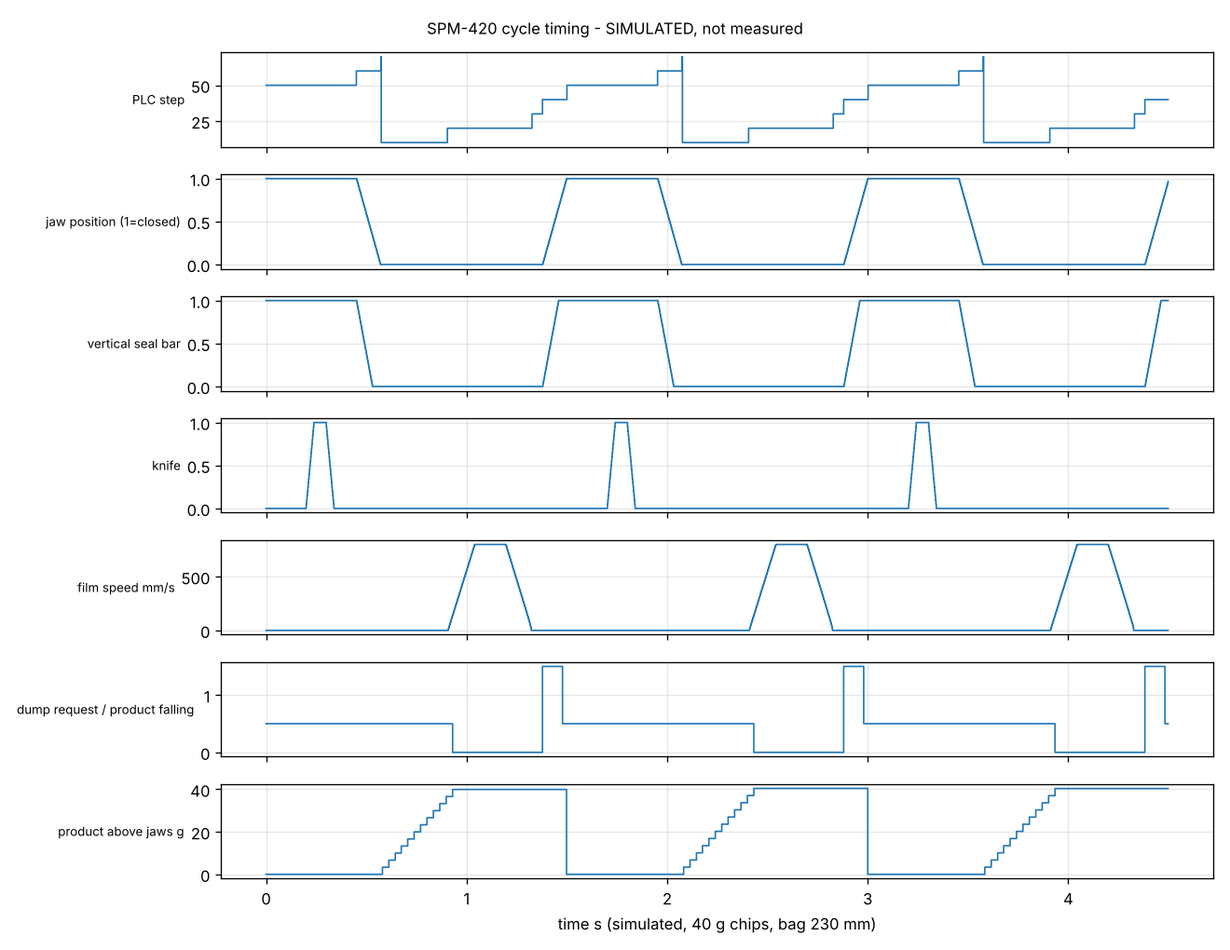
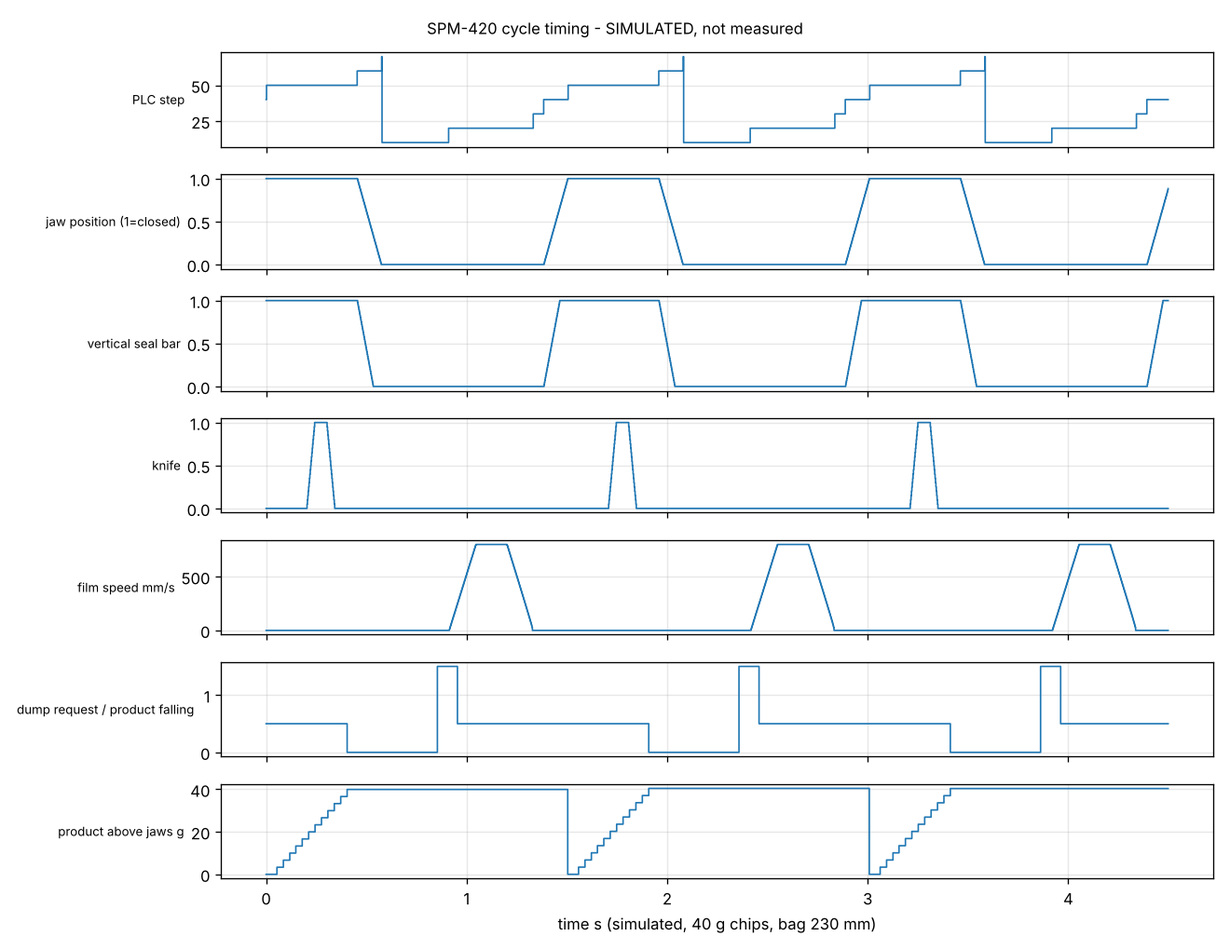
Send the weigher dump before the film pull so the charge lands on closed jaws
The dump request was issued when the jaws started to close. With a ~0.70 s
fall, the charge reached the jaw plane 8 ms after the jaws had reopened and
landed on a hot seal held only by the film.

FB_BagCycle now sends the dump request in step 10, Recipe.DumpLead_ms
(default 55 ms) before the film pull, and starts the pull at the pacing time
or DumpLead after a late dump. In the model the whole charge now lands on
the closed jaws (0.646-0.996 s, 52 ms margin each side) for any lead from
about 10 to 100 ms. Replaces DumpAdvance_ms in the UDT, HMI tags and
prototype.

Also fixes the reported speed: CycleTime_ms was taken at step 70, so the
PLC showed 51.3 bags/min at a real 40. It is now measured from pull start
to pull start.

Simulation: new checks for landing position and reported speed; 51/51 pass.
Docs updated: sequences, calibration C10, commissioning, test plan, report.

Claude-Session: https://claude.ai/code/session_01Hhh9uKDzXmJAP7xri2d8G6

diff --git a/AUTOMATION/HMI/hmi_prototype.html b/AUTOMATION/HMI/hmi_prototype.html
@@ -40,7 +40,7 @@ const ALARMS={1:['A','Emergency stop active','Release E-stop, press RESET, resta
 const USERS={operator:1,setter:2,maint:3,admin:9};
 const T={state:0,mode:0,step:0,speed:0,bagsTotal:128450,bagsBatch:0,bagsShift:0,empty:0,batchTarget:5000,temp:[25,25,25],out:[0,0,0],heaters:false,key:false,
  alarms:new Set(),hist:[],first:0,user:null,level:0,screen:'login',tab:'prod',run_s:0,stop_s:0,
- rcp:{name:'Potato chips 40 g',target:40,len:230,wid:160,reg:false,regWin:15,regOff:0,speed:40,vel:800,acc:6000,seal:450,t:[150,150,140],band:8,knife:200,dump:0,blast:0,n2:false,elev:50,take:60,coder:false},
+ rcp:{name:'Potato chips 40 g',target:40,len:230,wid:160,reg:false,regWin:15,regOff:0,speed:40,vel:800,acc:6000,seal:450,t:[150,150,140],band:8,knife:200,dump:55,blast:0,n2:false,elev:50,take:60,coder:false},
  io:{estop:true,guard:true,air:true,film:true,wgh:true,hopperLow:false}};
 const RCPS=['Potato chips 40 g','Extruded puffs 30 g','Crackers 100 g','Mini biscuits 150 g','Coated nuts 200 g'];
 let cyc=0;
@@ -88,7 +88,7 @@ const S={
   <div class="box"><span class="lamp ${T.io.estop?'g':'r'}"></span>E-stop chain <span class="lamp ${T.io.guard?'g':'r'}"></span>Guards <span class="lamp ${T.io.air?'g':'r'}"></span>Air <span class="lamp ${T.io.film?'g':'r'}"></span>Film <span class="lamp ${T.io.wgh?'g':'a'}"></span>Weigher ready</div>`},
  prod:()=>settings(`<div class="cols c2"><div class="box"><h4>Production settings</h4>${field('Speed','rcp.speed',5,60,'bags/min',1)}${field('Knife delay','rcp.knife',0,1500,'ms',2)}${field('Air blast','rcp.blast',0,400,'ms',2)}${toggle('Nitrogen flush','rcp.n2',2)}${toggle('Date coder','rcp.coder',2)}</div>
   <div class="box"><h4>Setup functions (SETUP mode)</h4><button ${T.mode===2&&T.level>=2?'':'disabled'}>Single cycle</button> <button ${T.mode===2&&T.level>=2?'':'disabled'}>Empty bag</button> <button ${T.mode===2&&T.level>=2?'':'disabled'}>Film jog ▶</button><p><small>Available to Setter in SETUP mode with guards closed.</small></p></div></div>`),
- weight:()=>settings(`<div class="cols c2"><div class="box"><h4>Weight settings</h4>${field('Target weight','rcp.target',10,1000,'g',2,0.5)}${field('Dump advance','rcp.dump',0,800,'ms',2)}<p><small>The target is entered at the weigher panel unless the weigher data link option is fitted. Tolerances and reject limits are set at the weigher / checkweigher.</small></p></div>
+ weight:()=>settings(`<div class="cols c2"><div class="box"><h4>Weight settings</h4>${field('Target weight','rcp.target',10,1000,'g',2,0.5)}${field('Dump lead (before film pull)','rcp.dump',0,800,'ms',2)}<p><small>Dump lead: the weigher is told to dump this long before the film pull, so the charge lands while the jaws are closed. Set it from high-speed video (calibration C10).</small></p><p><small>The target is entered at the weigher panel unless the weigher data link option is fitted. Tolerances and reject limits are set at the weigher / checkweigher.</small></p></div>
   <div class="box"><h4>Weigher</h4><span class="lamp ${T.io.wgh?'g':'a'}"></span>${T.io.wgh?'Combination ready':'Waiting for product'}<p><small>Bag weights are not measured by the bagger. Fit a checkweigher for per-bag weight records.</small></p></div></div>`),
  temp:()=>settings(`<div class="cols c2"><div class="box"><h4>Temperature settings</h4>${field('Front jaw','rcp.t.0',60,210,'°C',2)}${field('Rear jaw','rcp.t.1',60,210,'°C',2)}${field('Vertical bar','rcp.t.2',60,210,'°C',2)}${field('Seal time','rcp.seal',150,2000,'ms',2)}${toggle('Heaters','heaters',1)}</div>
   <div class="box"><h4>Actual</h4><table><tr><th>Zone</th><th>°C</th><th>Output</th><th>Band</th></tr>${[0,1,2].map(i=>`<tr><td>Z${i+1}</td><td>${f1(T.temp[i])}</td><td>${T.out[i].toFixed(0)} %</td><td><span class="lamp ${Math.abs(T.temp[i]-T.rcp.t[i])<=T.rcp.band?'g':'a'}"></span></td></tr>`).join('')}</table><small>Hard limit 220 °C in PLC; independent cut-out 250 °C.</small></div></div>`),

diff --git a/SIMULATION/plc_model.py b/SIMULATION/plc_model.py
@@ -19,7 +19,7 @@ class Recipe:
     TempBand: float = 8.0
     KnifeDelay_ms: int = 200
     KnifeTime_ms: int = 100
-    DumpAdvance_ms: int = 0
+    DumpLead_ms: int = 55
     SettleTime_ms: int = 50
     SpeedSet_bpm: float = 40.0
     UseRegMark: bool = False
@@ -79,14 +79,16 @@ class BagCycle:
         self.qJawClose = self.qVSeal = self.qKnife = self.qDumpRequest = self.qPullExecute = False
         self.Waiting = self.BagDone = self.EmptyDone = False
         self.ToJawClose = self.ToJawOpen = self.ToVSeal = self.ToKnife = self.BagJam = False
-        self.charged = self.dumpPending = self.bagExpected = self.singleLatch = False
+        self.charged = self.dumpIssued = self.bagExpected = self.singleLatch = False
         self.missedBags = 0; self.CycleTime_ms = 0
-        self.dumpTimer = TON(); self.dumpPulseT = 0.0; self.dumpOld = False
+        self.dumpCmd = False; self.dumpAt = 0.0; self.dumpPulseT = 0.0
 
     def __call__(self, dt, r: Recipe, Run, SingleCycle, NoProduct, Abort, CycleStop, Reset, TempsInBand,
                  FilmPresent, AirOk, WeigherReady, JawClosed, JawOpen, VSealBack, KnifeHome, PullDone,
                  PullError, BagOutEdge):
         self.BagDone = self.EmptyDone = False
+        self.dumpCmd = False
+        period = 60.0 / max(r.SpeedSet_bpm, 1.0)
         self.ToJawClose = self.ToJawOpen = self.ToVSeal = self.ToKnife = self.BagJam = False
         if SingleCycle:
             self.singleLatch = True
@@ -101,13 +103,23 @@ class BagCycle:
             if (Run or self.singleLatch) and not CycleStop:
                 self.Step = 10
         elif s == 10:
-            self.Waiting = not (TempsInBand and (WeigherReady or NoProduct or not Run))
-            if CycleStop or not (Run or self.singleLatch):
+            ready = TempsInBand and FilmPresent and AirOk and JawOpen and VSealBack and KnifeHome
+            want = ((Run and not CycleStop) or self.singleLatch) and not NoProduct
+            if self.dumpIssued:
+                self.Waiting = False
+                if self.tCycle >= max(period, self.dumpAt + r.DumpLead_ms / 1000) - 1e-9:
+                    self.Step = 20
+            elif CycleStop or not (Run or self.singleLatch):
+                self.Waiting = False
                 self.Step = 20 if (self.charged and TempsInBand and FilmPresent and AirOk) else 0
-            elif (TempsInBand and FilmPresent and AirOk and JawOpen and VSealBack and KnifeHome
-                  and (WeigherReady or NoProduct)
-                  and (self.tCycle >= 60.0 / r.SpeedSet_bpm - 1e-9 or self.singleLatch)):
-                self.Step = 20
+            elif want:
+                self.Waiting = not (TempsInBand and WeigherReady)
+                if ready and WeigherReady and (self.tCycle + r.DumpLead_ms / 1000 >= period - 1e-9 or self.singleLatch):
+                    self.dumpIssued = True; self.dumpCmd = True; self.dumpAt = self.tCycle
+            else:
+                self.Waiting = not TempsInBand
+                if ready and (self.tCycle >= period - 1e-9 or self.singleLatch):
+                    self.Step = 20
         elif s == 20:
             self.Waiting = False; self.qPullExecute = True
             if PullError:
@@ -116,8 +128,6 @@ class BagCycle:
                 self.qPullExecute = False; self.Step = 30
         elif s == 30:
             if et >= r.SettleTime_ms / 1000:
-                self.dumpPending = ((Run and not CycleStop and not NoProduct and WeigherReady)
-                                    or (self.singleLatch and not NoProduct and WeigherReady))
                 self.Step = 40
         elif s == 40:
             self.qJawClose = True; self.qVSeal = True
@@ -143,25 +153,24 @@ class BagCycle:
                 self.missedBags += 1
             self.bagExpected = True
             self.BagJam = self.missedBags >= 2
-            self.charged = self.dumpPending; self.dumpPending = False
-            self.CycleTime_ms = int(self.tCycle * 1000)
+            self.charged = self.dumpIssued; self.dumpIssued = False
             self.singleLatch = False
             self.Step = 900 if self.BagJam else 10
         elif s == 900:
             self.qJawClose = self.qVSeal = self.qKnife = self.qPullExecute = False
-            self.dumpPending = self.singleLatch = self.Waiting = False
+            self.dumpIssued = self.singleLatch = self.Waiting = False
             if Reset and not Abort:
                 self.missedBags = 0; self.bagExpected = False; self.charged = False
                 self.Step = 0
-        # dump pulse (TP 100 ms) DumpAdvance after the jaw-close command
-        q = self.dumpTimer(self.Step in (40, 50), r.DumpAdvance_ms / 1000, dt) and self.dumpPending
-        if q and not self.dumpOld:
+        # dump pulse (TP 100 ms) from the one-scan command; lead timer request -> pull
+        if self.dumpCmd:
             self.dumpPulseT = 0.1
-        self.dumpOld = q
         self.qDumpRequest = self.dumpPulseT > 0
         self.dumpPulseT = max(0.0, self.dumpPulseT - dt)
         # timers
         self.tStep = self.tStep + dt if self.Step == self.stepOld else 0.0
+        if self.Step == 20 and self.stepOld != 20:
+            self.CycleTime_ms = int(round(self.tCycle * 1000))       # pull start to pull start
         self.tCycle = 0.0 if (self.Step == 20 and self.stepOld != 20) else self.tCycle + dt
         self.stepOld = self.Step
 

diff --git a/SIMULATION/scenarios.py b/SIMULATION/scenarios.py
@@ -63,12 +63,16 @@ def s01_normal(seconds=120):
     L = [b["length"] for b in p.bags[2:]]
     res = dict(sim_seconds=seconds, bags_plc=g.plc.bags, bags_plant_filled=len(bags), empty_plc=g.plc.empties,
                mean_period_s=round(statistics.fmean(per), 3), speed_bpm=round(60 / statistics.fmean(per), 1),
+               plc_reported_speed_bpm=round(g.plc.speed, 1),
                weights=wstats(bags, 40.0), bag_length_mm=[round(min(L), 1), round(max(L), 1)],
-               product_in_seal_events=p.in_seal, alarms=g.active(), state=g.plc.mode.State)
+               product_in_seal_events=p.in_seal, pieces_landed_jaws_closed=p.land_closed,
+               pieces_landed_jaws_open=p.land_open, alarms=g.active(), state=g.plc.mode.State)
     checks = [("PLC bag count equals filled bags in plant (+/-1 in flight)", abs(g.plc.bags - len(bags)) <= 1),
               ("no product caught in the seal", p.in_seal == 0),
+              ("every piece lands while the jaws are closed and support the new seal", p.land_open == 0 and p.land_closed > 0),
               ("all filled bags within +/-10 % of target", res["weights"]["within_10pct"] == 100.0),
               ("speed is paced to the 40 bags/min recipe value (+/-0.5)", abs(res["speed_bpm"] - 40.0) <= 0.5),
+              ("speed reported by the PLC matches the real speed (+/-0.5)", abs(res["plc_reported_speed_bpm"] - res["speed_bpm"]) <= 0.5),
               ("bag length 230 +/-1 mm", abs(min(L) - 230) <= 1 and abs(max(L) - 230) <= 1),
               ("no alarm (warnings 21/26/32 allowed)", all(a in (21, 26, 32) for a in g.active())),
               ("exactly one empty leader bag", g.plc.empties == 1)]

diff --git a/SIMULATION/plant_model.py b/SIMULATION/plant_model.py
@@ -41,6 +41,7 @@ class Plant:
         self.string = 0.35
         self.packets = []                       # (arrival time, grams)
         self.acc = 0.0; self.bags = []; self.in_seal = 0
+        self.land_closed = 0; self.land_open = 0; self.land_rel = []   # where each piece landed (jaws closed / not)
         self.jaw_was_closed = False; self.cut_done = False
         self.bag_out_until = -1.0; self.bag_jam = False
         self.dump_old = False; self.t = 0.0; self.conveyor_ok = True; self.estop_drop = False
@@ -96,6 +97,9 @@ class Plant:
         for ta, g in self.packets:
             if ta <= t:
                 if 0.05 < self.jaw.x < 0.999: self.in_seal += 1
+                if self.jaw.out: self.land_closed += 1
+                else: self.land_open += 1
+                self.land_rel.append(ta)
                 self.acc += g
             else: rest.append((ta, g))
         self.packets = rest

diff --git a/AUTOMATION/SEQUENCES/sequences.md b/AUTOMATION/SEQUENCES/sequences.md
@@ -1,6 +1,6 @@
 # Control sequences, state machines and timing
 
-Implemented in `AUTOMATION/PLC/*.scl`; exercised by `SIMULATION/` (49 checks, all passing in the model).
+Implemented in `AUTOMATION/PLC/*.scl`; exercised by `SIMULATION/` (51 checks, all passing in the model).
 
 ## 1. Operating modes
 
@@ -42,16 +42,16 @@ stateDiagram-v2
 stateDiagram-v2
   [*] --> S0
   S0: 0 IDLE
-  S10: 10 WAIT CONDITIONS
+  S10: 10 WAIT CONDITIONS (weigher dump request, DumpLead before the pull)
   S20: 20 PULL FILM
   S30: 30 SETTLE
-  S40: 40 CLOSE JAWS + vertical bar (weigher dump request)
+  S40: 40 CLOSE JAWS + vertical bar
   S50: 50 SEAL DWELL (knife fires)
   S60: 60 OPEN JAWS
   S70: 70 CYCLE END (count, jam check)
   S900: 900 ABORT (all actuators off)
   S0 --> S10: Run or single cycle
-  S10 --> S20: temps in band, film, air, jaws open, weigher READY, pacing time elapsed
+  S10 --> S20: dump sent, DumpLead elapsed (dump sent at pacing time minus DumpLead, when ready and weigher READY)
   S10 --> S20: stop requested and a charged bag is open (closing cycle)
   S10 --> S0: stop requested, nothing to close
   S20 --> S30: pull done
@@ -67,7 +67,7 @@ stateDiagram-v2
   S900 --> S0: RESET with no abort cause
 ```
 
-Product tracking: the charge requested in step 40 of cycle *n* lands in the bag whose bottom seal is being made in that step and leaves the machine in cycle *n+1*. Hence one empty leader bag after each start and one closing cycle at each stop (both verified in simulation S01/S03/S04).
+Product tracking: the charge requested in step 10 just before cycle *n* falls during the film pull, lands on the bottom seal made in steps 40-50 of cycle *n* while the jaws hold it, and leaves the machine in cycle *n+1*. Hence one empty leader bag after each start and one closing cycle at each stop (both verified in simulation S01/S03/S04).
 
 ## 4. Timing diagram
 
@@ -75,19 +75,25 @@ Simulated, reference recipe (230 mm bag, 40 bags/min): `timing_diagram_simulated
 
 ![timing](timing_diagram_simulated.png)
 
-| Phase | Start s | Duration s | Actuator | Confirmed by |
-|---|---|---|---|---|
-| Film pull | 0.00 | 0.42 | servo, trapezoid 6 m/s², 0.8 m/s | axis done |
-| Settle | 0.42 | 0.05 | - | timer |
-| Jaws + vertical bar close | 0.47 | ~0.12-0.15 | Y1, Y2 | B5 |
-| Weigher dump request | 0.47 + dump advance | 0.10 pulse | relay to weigher | dump-done pulse |
-| Seal dwell | ~0.60 | 0.45 | heat + pressure | timer |
-| Knife | dwell + 0.20 | 0.10 | Y3 | B8 on return |
-| Jaws open | ~1.05 | ~0.12-0.15 | spring-return valves | B6, B7, B8 |
-| Product falling (1.9 m) | from dump | lead ~0.70, tail ~1.05 after dump | gravity | must end before the next jaw close |
-| Pacing wait | ~1.20 | to 1.50 | - | cycle timer |
+Times from the simulation trace, measured from the start of the film pull. The simulated cycle is 1.504 s against the 1.500 s recipe value (40 bags/min): the 2 ms scan of the model rounds the pacing and the 55 ms lead, at most one scan each.
 
-Synchronisation rule: `dump advance + fall of the tail < cycle time - jaw close time`. At 40 bags/min: 0 + 1.05 < 1.50 - 0.15. The recipe value "dump advance" exists so that light, slow products can be given more of the cycle; the fall times must be measured per product (high-speed video) during commissioning.
+| Phase | Start s | End s | Actuator | Confirmed by |
+|---|---|---|---|---|
+| Weigher dump request | -0.056 (DumpLead before the pull, in step 10) | +0.044 | 100 ms pulse, relay to weigher | dump-done pulse |
+| Film pull | 0.000 | 0.422 | servo, trapezoid 6 m/s², 0.8 m/s | axis done |
+| Settle | 0.422 | 0.474 | - | timer |
+| Jaws + vertical bar close | 0.474 | 0.594 | Y1, Y2 | B5 |
+| Seal dwell | 0.596 | 1.048 | heat + pressure | timer |
+| Knife | 0.798 | 0.898 | Y3 | B8 on return |
+| **Charge lands on the closed jaws** | **0.646** | **0.996** | gravity: 0.70 s fall + 0.35 s string | 52 ms after jaws closed, 52 ms before they start to open |
+| Jaws open | 1.048 | 1.168 | spring-return valves | B6, B7, B8 |
+| Pacing wait | 1.172 | 1.504 | - | cycle timer |
+
+Synchronisation rule: the whole charge must land while the jaws are closed, so they carry it while the new bottom seal sets:
+
+`t_closed  <  -DumpLead + t_fall          and          -DumpLead + t_fall + t_string  <  t_open`
+
+with t_closed = 0.594 s and t_open = 1.048 s (both measured from the pull start, fixed by the recipe), t_fall ≈ 0.70 s and t_string ≈ 0.35 s (assumed, product-dependent). In the model this holds for DumpLead between about 10 and 100 ms; 55 ms centres the charge in the dwell. The window only exists while t_string is shorter than the dwell minus margins (0.45 s here): a product with a longer string needs a longer dwell or a lower speed. The pull starts at the pacing time, or DumpLead after the request if the weigher was late, so a late weigher shifts the whole cycle but not this relation. t_fall and t_string must be measured per product with high-speed video (calibration C10).
 
 ## 5. Named sequences
 
@@ -95,7 +101,7 @@ Synchronisation rule: `dump advance + fall of the tail < cycle time - jaw close 
 
 **Product feeding:** weigher "feed request" starts elevator + vibratory tray; they stop when the request drops or on a weigher fault; hopper-low gives a warning only.
 
-**Weighing:** autonomous in the weigher. Bagger sees READY, issues DUMP REQUEST, receives DUMP DONE. No READY for 10 s -> warning 21, amber lamp, machine waits without pulling film.
+**Weighing:** autonomous in the weigher. Bagger sees READY, issues DUMP REQUEST in step 10 (DumpLead before the pull), receives DUMP DONE. Once the request is sent the film pull always follows, because the product is already falling. No READY for 10 s -> warning 21, amber lamp, machine waits without pulling film.
 
 **Packaging / sealing / cutting / discharge:** steps 20-70 above. Bag passing photo-eye B11 resets the jam counter.
 

diff --git a/DOCUMENTATION/REPORTS/final_engineering_report.md b/DOCUMENTATION/REPORTS/final_engineering_report.md
@@ -18,7 +18,7 @@ Revision P1, 2026-11-11. Status of the project: **design package at preliminary-
 | 10 | PLC program | `AUTOMATION/PLC/*.scl, *.udt, *.db` | Structured Text source, **not compiled in TIA Portal** |
 | 11 | HMI application | `AUTOMATION/HMI/` specification, tag CSV, browser prototype | WinCC project must be built from the spec |
 | 12 | Monitoring software | `SOFTWARE/` FastAPI + PostgreSQL schema + React | runs; tested with simulated source; OPC UA path untested on a PLC |
-| 13 | Simulation | `SIMULATION/` | 12 scenarios / 49 checks pass; weigher Monte-Carlo |
+| 13 | Simulation | `SIMULATION/` | 12 scenarios / 51 checks pass; weigher Monte-Carlo |
 | 14 | Manufacturing guide | `DOCUMENTATION/MANUFACTURING/manufacturing_guide.md` | process, tolerances, tools |
 | 15 | Assembly instructions | `DOCUMENTATION/MANUFACTURING/assembly_instructions.md` | sequence, threading, format change |
 | 16 | Safety documentation | `DOCUMENTATION/SAFETY/` | preliminary risk assessment, standards list, LOTO, cleaning |
@@ -43,7 +43,7 @@ Line: floor hopper with vibratory tray -> Z-bucket elevator -> 10-head combinati
 2. **The bagger cannot detect weight errors** (simulation S05). Weight assurance rests on the weigher and, for anything sold by weight, on a checkweigher.
 3. **Speed is capped by pneumatic jaws** at about 49 bags/min for this bag; the 80-150 bags/min of the reference manufacturer's high-speed model requires servo jaws and continuous film motion.
 4. **Combination weighing needs charge variety**: the model shows more failed combinations when per-head charges are very uniform, and a 4-head weigher is unusable for 40 g chips (4.7 % give-away, ~70 % skipped cycles).
-5. **Simulation found three real sequence defects** before any hardware: a hang in STOPPING after a cycle abort, alarms needing two resets, and the recipe speed not being enforced. All fixed in both the SCL and the model.
+5. **Simulation found five real sequence defects** before any hardware: a hang in STOPPING after a cycle abort, alarms needing two resets, the recipe speed not being enforced, the weigher dump being sent so late that the charge landed after the jaws had opened, and a wrong speed figure reported by the PLC. All fixed in both the SCL and the model. The dump timing now has a tuning window of only about ±45 ms around 55 ms (model values); it must be set from high-speed video per product.
 6. **Cabinet temperature margin is thin** for unconditioned halls in Iraq (≈ 45 °C inside at 35 °C ambient): a filter fan or cooler is specified.
 7. Film is ~98 % of the energy-plus-film running cost; bag length matters more than any energy measure.
 
@@ -56,7 +56,7 @@ Line: floor hopper with vibratory tray -> Z-bucket elevator -> 10-head combinati
 | A3 | Bulk densities of products | bag sizes, elevator | measure each product |
 | A4 | Film: 50 µm PP-based laminate, seal 150 °C / 0.45 s / 0.4 MPa | cycle, heaters, jaw force | film supplier data sheet + seal trials (T-SEAL-01) |
 | A5 | Film drag 60 N, belt friction allows 6 m/s² | servo sizing, cycle | spring-scale measurement; pull trials |
-| A6 | Product string duration 0.35 s, fall without drag | timing | high-speed video per product |
+| A6 | Product string duration 0.35 s, fall without drag | timing, dump lead (55 ms) | high-speed video per product |
 | A7 | Per-head charge CV 30 %, cell noise 0.15 g | weight statistics | weigher supplier trials with the real product |
 | A8 | Weigher 1100 dia x 1250, 380 kg, 1.5 kW, 70 wpm; elevator section and head height | layout, loads, footprint | supplier certified drawings and data |
 | A9 | Pneumatic travel 0.12-0.15 s, knife force 150 N | cycle | measurement |

diff --git a/DOCUMENTATION/TESTING/test_plan.md b/DOCUMENTATION/TESTING/test_plan.md
@@ -4,7 +4,7 @@
 
 | Evidence | Tool | Result | What it does NOT show |
 |---|---|---|---|
-| Sequence logic vs plant model, 12 scenarios, 49 checks | `SIMULATION/run_simulation.py`, `pytest SIMULATION` | all pass (`SIMULATION/RESULTS.md`) | correctness of the SCL text, real actuator times, real thermal behaviour, film behaviour |
+| Sequence logic vs plant model, 12 scenarios, 51 checks | `SIMULATION/run_simulation.py`, `pytest SIMULATION` | all pass (`SIMULATION/RESULTS.md`) | correctness of the SCL text, real actuator times, real thermal behaviour, film behaviour |
 | Combination weighing statistics | `SIMULATION/weigher_sim.py` | `weigher_results.json` | real charge distribution, real load-cell dynamics |
 | Combination algorithm (C) | gcc host test, 20 000 random cases vs brute force | pass | behaviour on a microcontroller |
 | Monitoring backend | 8 pytest API tests (SQLite) + live smoke test with simulated source | pass | PostgreSQL in production, OPC UA against a real CPU |
@@ -12,7 +12,7 @@
 | HMI prototype | browser run through login, all screens, start, E-stop, reset | pass | the real WinCC project |
 | CAD | model regenerates, bounding box equals calculated envelope 4450 x 1900 x 3900 | pass | interference check at detail level, manufacturability |
 
-Three sequence defects were found and fixed through simulation before any hardware existed (STOPPING could hang after a cycle abort; alarms needed two RESET presses; recipe speed was not enforced). This is the purpose of the model; it is not proof that no defects remain.
+Five sequence defects were found and fixed through simulation before any hardware existed: STOPPING could hang after a cycle abort; alarms needed two RESET presses; recipe speed was not enforced; the weigher dump was sent too late, so the charge landed after the jaws had opened, on an unsupported hot seal; and the speed reported by the PLC was measured over part of the cycle (51.3 shown at a real 40 bags/min). This is the purpose of the model; it is not proof that no defects remain.
 
 ## 2. Simulation coverage requested by the brief
 

diff --git a/AUTOMATION/HMI/HMI_SPECIFICATION.md b/AUTOMATION/HMI/HMI_SPECIFICATION.md
@@ -43,7 +43,7 @@ Auto-logoff after 10 min. Passwords are managed in the panel's user administrati
 | 3 | Machine overview | synoptic: hopper, elevator, weigher, former, belts, jaws, take-off; each element coloured by state; live step text ("50 SEAL DWELL"); sensor lamps | Cycle_Step, DI/DQ bytes |
 | 4 | Production settings | speed, knife delay, air blast, N2 flush, coder on/off; SETUP functions: single cycle, empty bag | Rcp_Speed, Rcp_KnifeDelay, Cmd_SingleCycle, Cmd_EmptyBag |
 | 5 | Product configuration | recipe list (20), load / save / copy, name, bag length, bag width (shows required forming set and tube OD), registration mark on/off, window, offset | Rcp_* |
-| 6 | Weight settings | target weight (information + value to be keyed at the weigher; sent automatically only if the weigher option "Modbus TCP" is fitted), dump advance; link text to weigher panel; latest checkweigher statistics if fitted | Rcp_TargetWeight, Rcp_DumpAdvance |
+| 6 | Weight settings | target weight (information + value to be keyed at the weigher; sent automatically only if the weigher option "Modbus TCP" is fitted), dump lead (weigher dump request before the film pull, 0-800 ms); link text to weigher panel; latest checkweigher statistics if fitted | Rcp_TargetWeight, Rcp_DumpLead |
 | 7 | Temperature settings | 3 zones: setpoint, actual, output %, in-band lamp, trend 30 min; heaters ON/OFF; seal time | Rcp_Temp_Zx, Temp_Zx_Act/Out, Heaters_On, Rcp_SealTime |
 | 8 | Motor speed settings | film pull velocity and acceleration, elevator %, take-off %, calculated cycle time and theoretical bags/min for the entered values | Rcp_PullVel, Rcp_PullAcc, Rcp_ElevSpeed, Rcp_TakeoffSpeed |
 | 9 | Production counter | total (not resettable), batch, shift, empty cycles, batch target, run/stop time, efficiency % | Bags_*, Batch_Target |

diff --git a/SIMULATION/RESULTS.md b/SIMULATION/RESULTS.md
@@ -3,7 +3,7 @@
 > Generated by `run_simulation.py`. **These are results of a software model** (Python port of the PLC sequence + assumed plant physics). They show that the sequence design behaves as intended against the assumptions; they are not measurements and do not validate machine performance.
 
 
-**49 of 49 checks passed.**
+**51 of 51 checks passed.**
 
 
 ## S01 normal automatic production
@@ -12,8 +12,10 @@
 |---|---|
 | PLC bag count equals filled bags in plant (+/-1 in flight) | PASS |
 | no product caught in the seal | PASS |
+| every piece lands while the jaws are closed and support the new seal | PASS |
 | all filled bags within +/-10 % of target | PASS |
 | speed is paced to the 40 bags/min recipe value (+/-0.5) | PASS |
+| speed reported by the PLC matches the real speed (+/-0.5) | PASS |
 | bag length 230 +/-1 mm | PASS |
 | no alarm (warnings 21/26/32 allowed) | PASS |
 | exactly one empty leader bag | PASS |
@@ -24,8 +26,9 @@
  "bags_plc": 78,
  "bags_plant_filled": 78,
  "empty_plc": 1,
- "mean_period_s": 1.502,
+ "mean_period_s": 1.504,
  "speed_bpm": 39.9,
+ "plc_reported_speed_bpm": 39.9,
  "weights": {
   "n": 78,
   "mean": 40.41,
@@ -39,6 +42,8 @@
   230.0
  ],
  "product_in_seal_events": 0,
+ "pieces_landed_jaws_closed": 948,
+ "pieces_landed_jaws_open": 0,
  "alarms": [],
  "state": 3
 }
@@ -108,7 +113,7 @@
  "jaws_open": true,
  "state_after_reset": 0,
  "bags": 14,
- "charged_open_bag": false
+ "charged_open_bag": true
 }
 ```
 
@@ -244,7 +249,7 @@
  ],
  "state_after_restart": 0,
  "bags_made_without_start": 0,
- "jaws_open": true,
+ "jaws_open": false,
  "bags_before_start_pressed": 0,
  "bags_after_restart": 10
 }

diff --git a/DOCUMENTATION/TESTING/calibration.md b/DOCUMENTATION/TESTING/calibration.md
@@ -11,7 +11,7 @@
 | C7 | Jaw parallelism / pressure | carbon or pressure-indicating film | print at operating pressure, even density | - | after jaw service |
 | C8 | Weigher | certified weights (OIML class M1 or better) | supplier procedure: zero, span per head, then 20 dumps checked on a reference scale | weigher specification / legal metrology | 30 days check, yearly verification |
 | C9 | Reference bench scale for sampling | certified weights | daily check with one weight near the bag weight | ± 0.1 g | daily |
-| C10 | Dump advance | high-speed video (phone 240 fps is sufficient) | film the bag bottom above the jaws; measure lead and tail arrival relative to jaw close; set advance so the tail arrives >= 0.1 s before the next close | - | each new product |
+| C10 | Dump lead | high-speed video (phone 240 fps is sufficient) | film the jaw area through the guard; measure first and last piece arrival relative to the dump request; set dump lead so the first piece lands >= 40 ms after the jaws close and the last >= 40 ms before they open (model: 55 ms for 40 g chips) | both margins >= 40 ms | each new product, after speed or dwell changes |
 | C11 | Conveyor / elevator speeds | tachometer or stopwatch over 1 m | set % so the take-off clears one bag per cycle and the elevator duty is 40-70 % | - | commissioning |
 
 Record every calibration in the maintenance log (monitoring software -> Maintenance -> record with description).

diff --git a/DOCUMENTATION/06_PRODUCT_CONFIGURATION.md b/DOCUMENTATION/06_PRODUCT_CONFIGURATION.md
@@ -12,7 +12,7 @@
 | Conveyor / elevator speed | 10-100 % | HMI recipe | VFD reference |
 | Sealing temperature | 60-210 °C per zone | HMI recipe | PI control |
 | Sealing time | 150-2000 ms | HMI recipe | dwell step |
-| Knife delay, dump advance, air blast, N2 | see `hmi_tags.csv` | HMI recipe | timers |
+| Knife delay, dump lead, air blast, N2 | see `hmi_tags.csv` | HMI recipe | timers |
 
 ## Starting recipes (all values are starting points for trials, not validated settings)
 
@@ -30,7 +30,7 @@ Fill ratio = product bulk volume / maximum pillow volume, limit 0.65; values fro
 
 | Property | Effect | Parameter that must change |
 |---|---|---|
-| Bulk density 45-600 g/L | bag volume, string length in the tube | bag size, speed, dump advance |
+| Bulk density 45-600 g/L | bag volume, string length in the tube | bag size, speed, dump lead |
 | Piece mass 0.2-8 g | weighing resolution | number of heads per dump, feeder tuning |
 | Fragility | breakage | amplitudes, drop heights, speed |
 | Oil/seasoning/crumbs | seal contamination, sticking | dimple plates, seal temperature/time, cleaning interval |

diff --git a/DOCUMENTATION/04_MECHANICAL_DESIGN.md b/DOCUMENTATION/04_MECHANICAL_DESIGN.md
@@ -63,7 +63,7 @@ The calculation sheet shows the Ø63 jaw cylinder delivers 1683 N against a requ
 | Weigher | dimpled plates, low feeder amplitude with longer feed time, soft-close gates, staggered dump (5-20 ms between heads) to lengthen the charge and avoid bridging in the tube |
 | Collating chute and funnel | >= 60° walls, no steps; funnel overlaps tube |
 | Fill tube | the 1.9 m fall is unavoidable; product lands on film supported by the closed jaws; larger tube than strictly needed is preferred (tube ID >= 1.5 x largest piece) |
-| Jaws | product-in-seal is prevented by timing (dump advance per recipe) and by an optional stripper/"bag tapper" above the jaws; no mechanical stager for chips |
+| Jaws | product-in-seal is prevented by timing: the dump is requested before the film pull (recipe value "dump lead") so the charge lands on the closed jaws and by an optional stripper/"bag tapper" above the jaws; no mechanical stager for chips |
 | Take-off | bag falls <= 300 mm onto an inclined soft belt |
 
 ## 5. Maintenance access and adjustability
